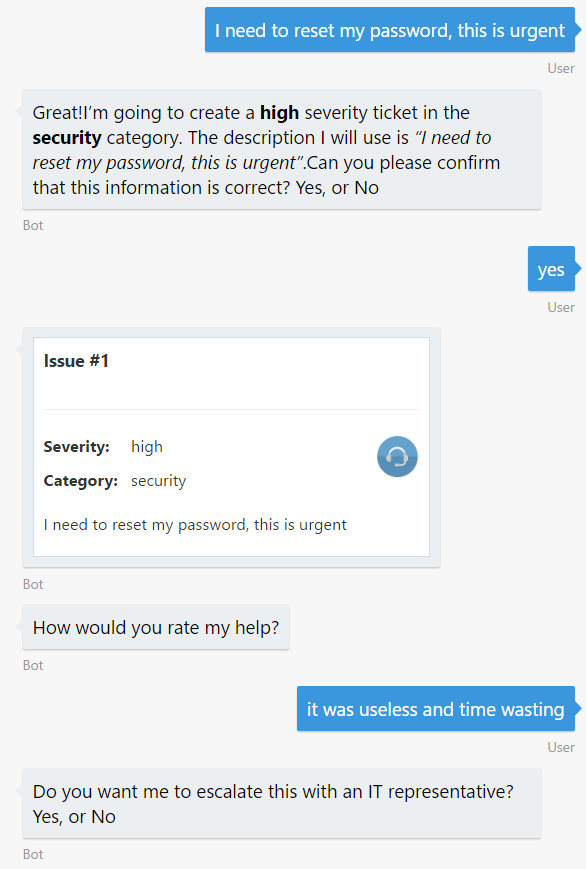
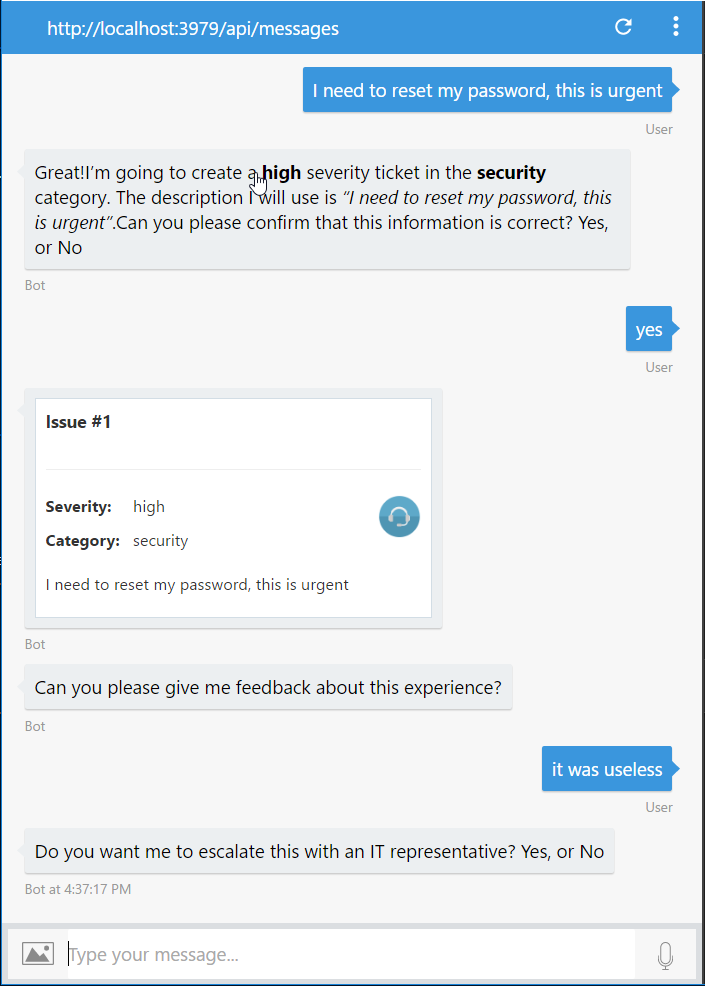
completed test of exercise

diff --git a/CSharp/exercise7-HandOffToHuman.md b/CSharp/exercise7-HandOffToHuman.md
@@ -258,6 +258,7 @@ In this task you will update the bot to connect to the routing Scorables and add
 1. Also add the following using statement.
 
     ```csharp
+    using Autofac;
     using Microsoft.Bot.Builder.ConnectorEx;
     ```
 
@@ -314,6 +315,7 @@ In this task you will update the bot to connect to the routing Scorables and add
 1. Also add the following using statement.
 
     ```csharp
+    using Autofac;
     using Microsoft.Bot.Builder.ConnectorEx;
     ```
 
@@ -321,9 +323,9 @@ In this task you will update the bot to connect to the routing Scorables and add
 
 1. Run the app clicking in the **Run** button and open two instances of the emulator. Type the bot URL as usual (`http://localhost:3979/api/messages`) in both.
 
-1. In one emulator type `I need to reset my password, this is urgent` to create a new ticket and confirm the submission. When the bot asks for feedback, type `it was useless and time wasting`. You should see a new prompt asking you if you want to talk with an agent.
+1. In one emulator type `I need to reset my password, this is urgent` to create a new ticket and confirm the submission. When the bot asks for feedback, type a negative phrase like `it was useless`. You should see a new prompt asking you if you want to talk with an agent.
 
-    ![exercise7-test-user-ticketfeedback](./images/exercise7-test-user-ticketfeedback.png)
+    ![exercise7-test-user-ticketfeedback](images\exercise7-test-user-ticketfeedback.png)
 
 1. Confirm the prompt to send the user to the queue of waiting users.
 
